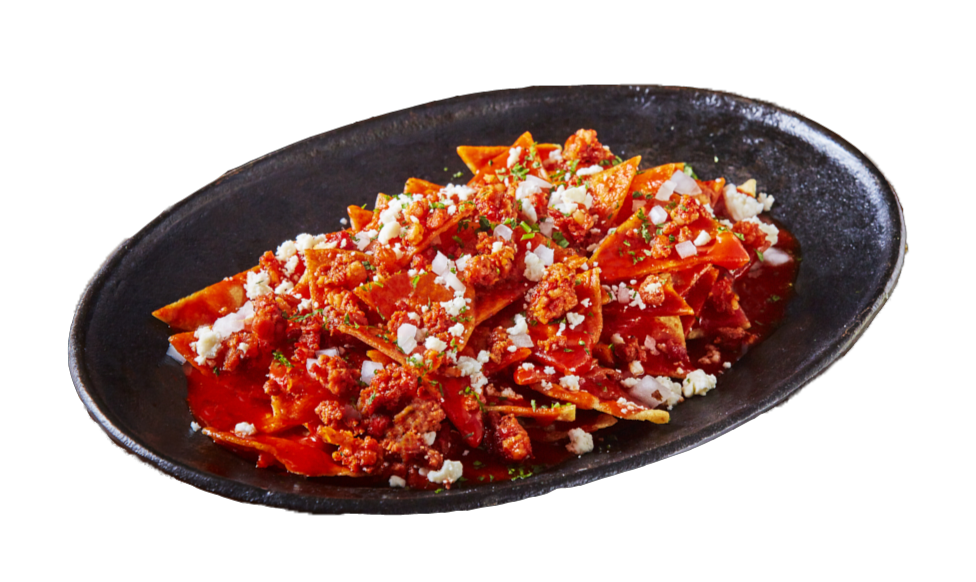
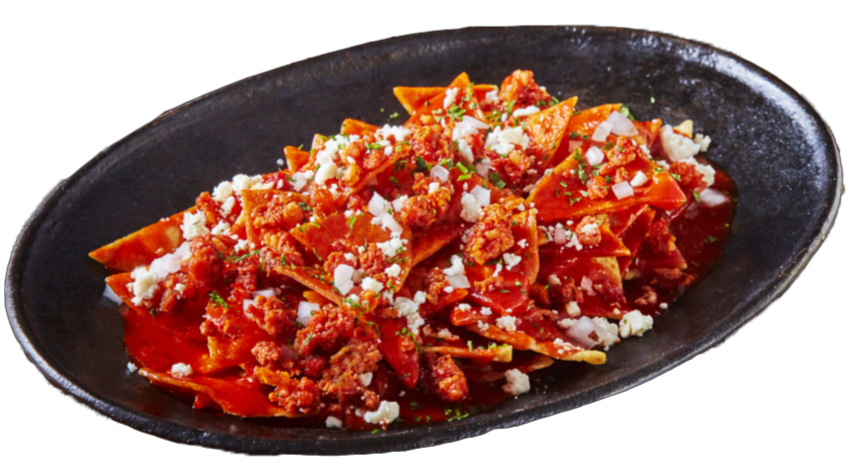
update 1
le immagini si adattano allo schermo

diff --git a/css/style.css b/css/style.css
@@ -3,7 +3,7 @@ body{
     background-color:rgb(243, 243, 223);
     font-family: 'Cabin', sans-serif;}
 
-img {
+img{
     height: auto;
 }
 
@@ -33,7 +33,7 @@ p.logo{
 }
 
 p.logo img{
-    max-width: 200px
+    max-width: 200px;
 }
 
 p.lente img{
@@ -49,18 +49,19 @@ display: flex;
 justify-content: center;
 }
 
+
 p.cerca{
     background-color: white;
     border-radius: 40px;
     text-align: center;
-    max-width: 80px;
+width: 80px;
     display: flex;
 }
 
 p.lente {
     background-color: #F8972E;
-    width: 80px;
-    height: 80px;
+width: 80px;
+     height: 80px;
     border-radius: 40px;
     align-items: center;
     justify-content: center;
@@ -162,7 +163,7 @@ div.introduzione p{
 
 div.introduzione img {
     background-color: none;
-    max-width: 400px;
+    max-width: 100%;
     grid-column-start: 2;
     margin: auto;
 }
@@ -191,7 +192,6 @@ div.giappone p.testo{
     font-size: 30px;
     margin-top: auto;
     margin-right: auto;
-    margin-bottom: ;
     max-width: 100%;
     height: fit-content;
     padding: 50px;
@@ -230,30 +230,32 @@ div.row::after {
   }
 
 img.tofu{
-    width: 500px;
-    margin-left: 300px;
+    width: 100%;
+    margin-left: 100px;
 }
 
 img.riso{
-    width: 500px;
+    width: 100%;
 }
 
 img.egitto1{
-    width: 500px;
+    width: 100%;
+    margin-left: 10%;
 }
 
 img.egitto2{
-    width: 500px;
-    margin-left: 200px;
+    width: 100%;
+    margin-left: 100px;
+margin-right: 10%;
 }
 
 img.messico1{
-    width: 500px;
+    width: 100%;
 }
 
 img.messico2{
-    width: 800px;
-    margin-left: 150px;
+    width: 100%;
+    margin-left: 100px;
 }
 
 div.fine{
@@ -266,7 +268,7 @@ padding: 10px;
 }
 
 img.caffè2{
-    width: 800px;
+    width: 100%;
     display: block;
     margin-left: auto;
     margin-right: auto;
